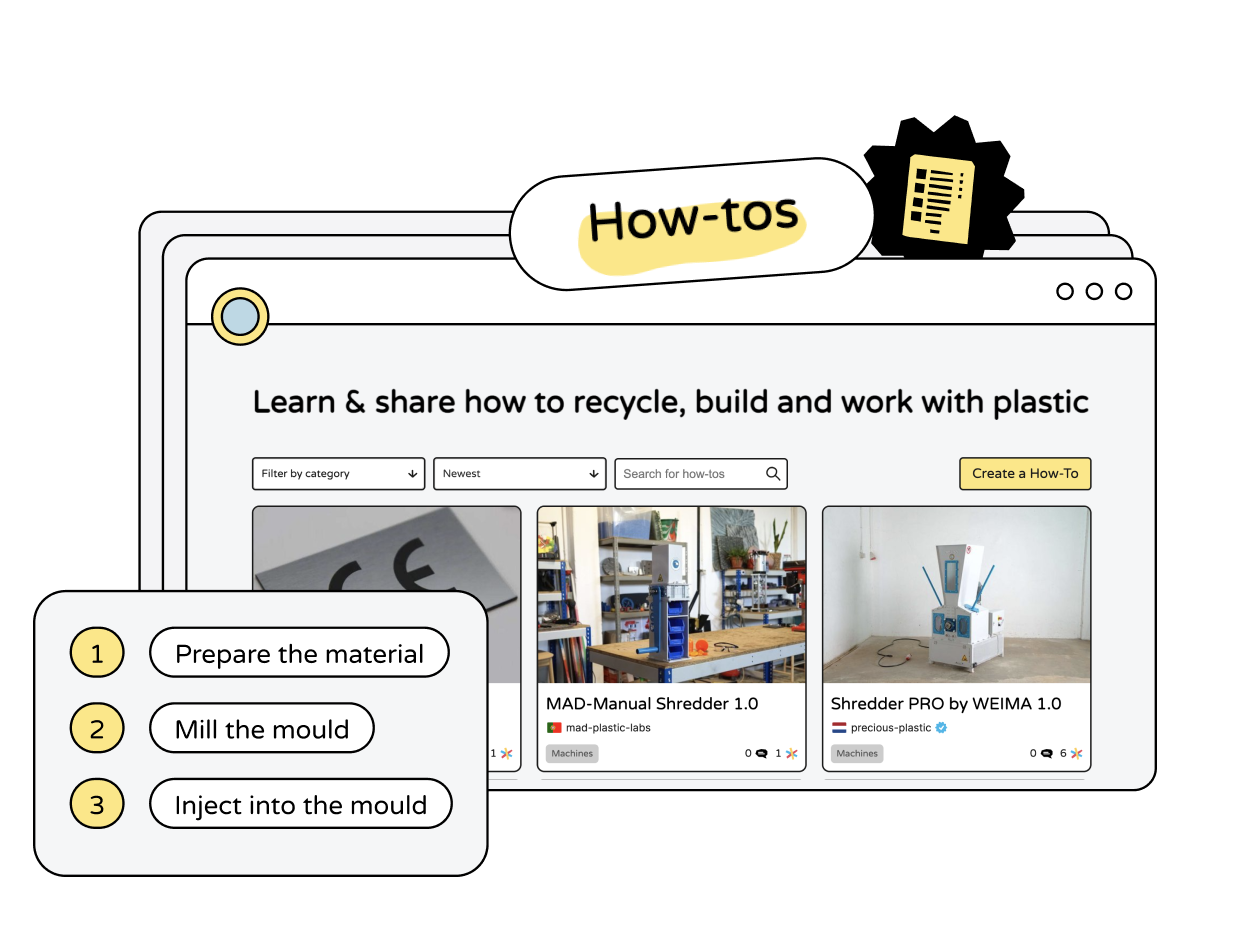
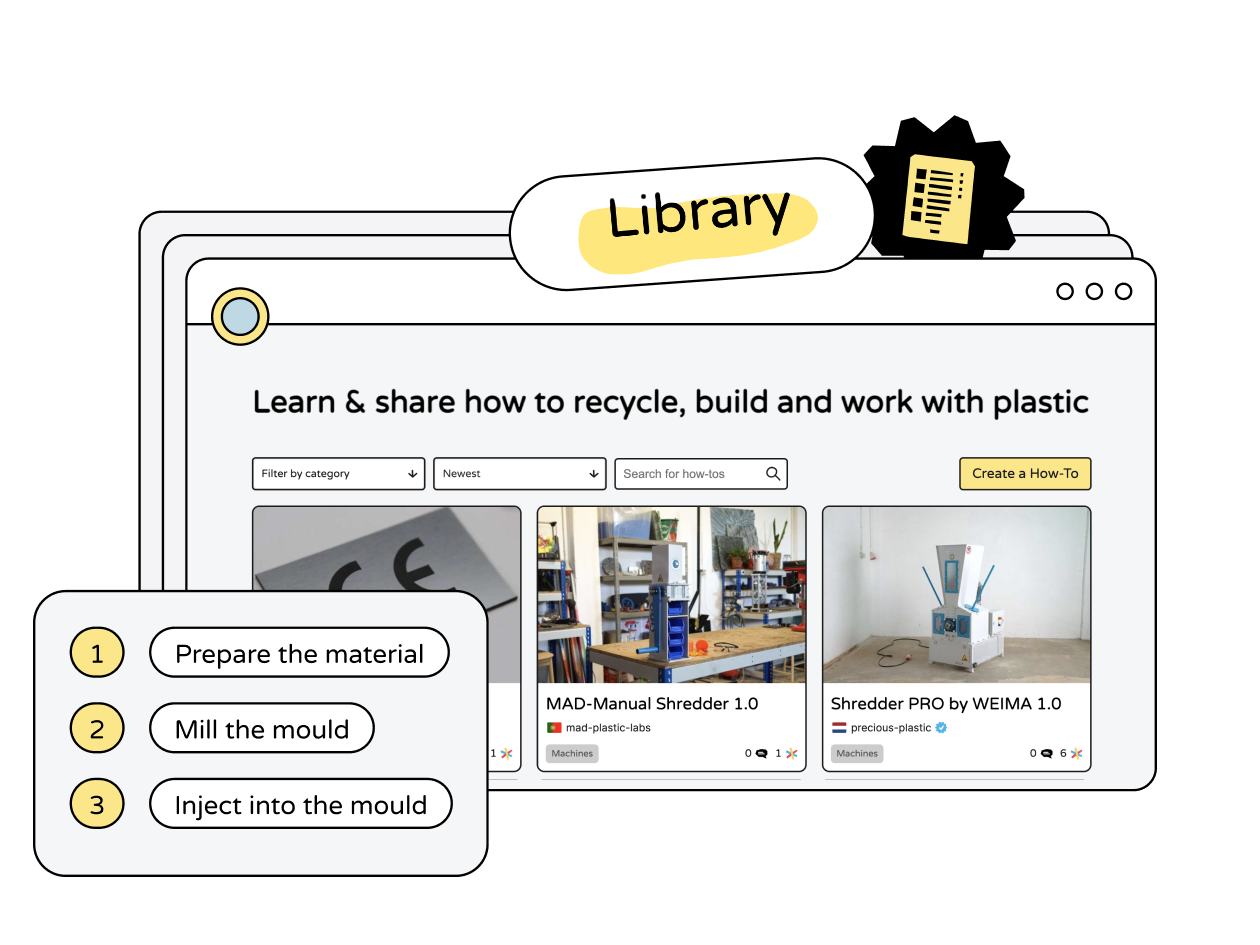
how-to to library

Changed region(s): [[0.4643, 0.1841, 0.65, 0.2762]]

diff --git a/docs/intro.md b/docs/intro.md
@@ -82,7 +82,7 @@ Solutions made by the community. New products, blueprints of machines, 3D models
 There are +200 projects already open-sourced, lots more to explore!
 
 
-[Visit How-tos](https://community.preciousplastic.com/how-to)
+[Visit Library](https://community.preciousplastic.com/library)
 
 
 </div>
